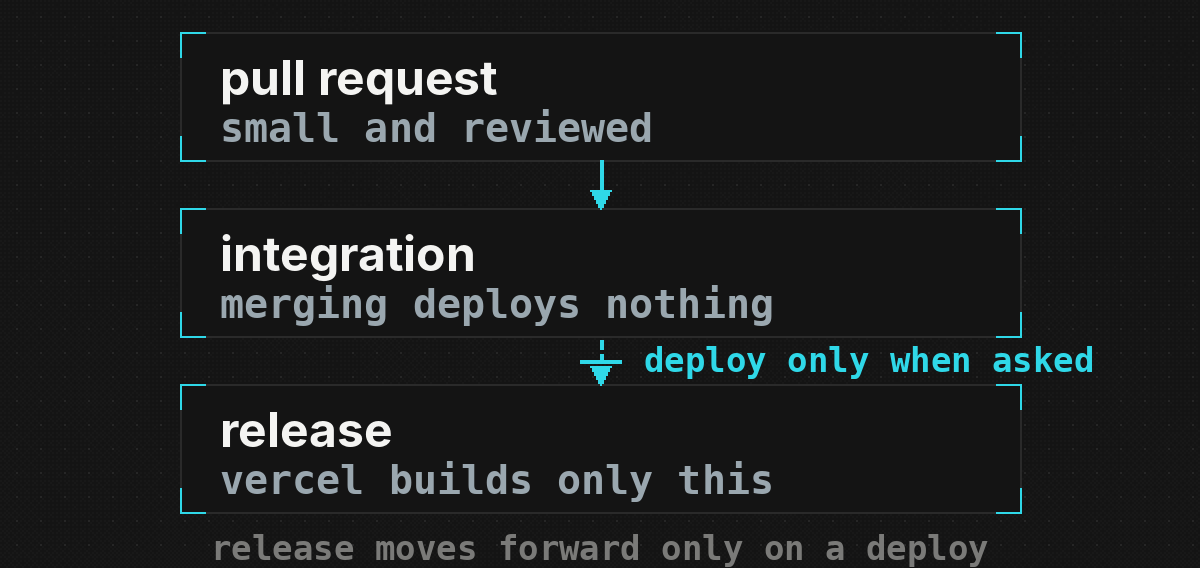
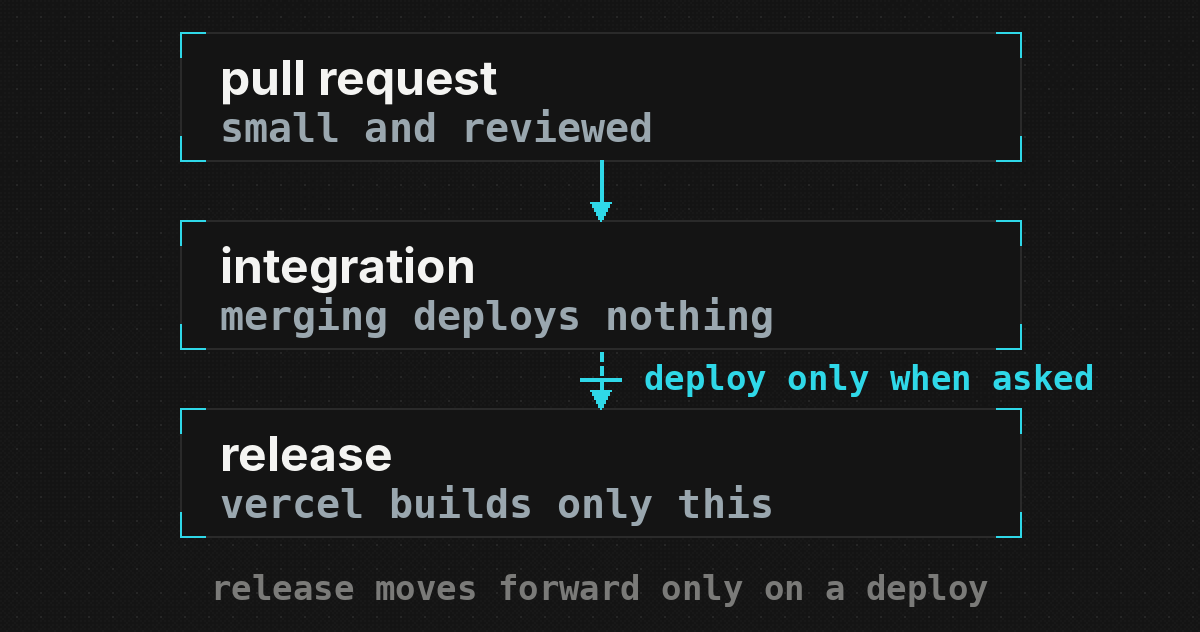
README round 6 to main: tighten stack and workflow art
Brings the tightened stack and workflow art from integration (#639) onto
main. Only README.md, docs/readme/ and scripts/readme-art/ change. Built on
top of origin/main, no history rewrite.

Claude-Session: https://claude.ai/code/session_01Pmx9dVyQKEsummtyqJCQsj

diff --git a/scripts/readme-art/generate.py b/scripts/readme-art/generate.py
@@ -727,7 +727,7 @@ def stack_art():
 
     Labels are sized for a phone: at 390px wide the piece is about 0.3x its
     pixel size, so the text is drawn large."""
-    W, H = 600, 160
+    W, H = 600, 168
     yy, xx = grid(H, W)
     field = 0.04 + 0.1 * fbm(H, W, 91, 30, 3) + 0.08 * (xx / W)
     im = to_image(dither(np.clip(field, 0, 1), ["#141414", "#181818", "#202020", "#2a2a2a", "#333333"]))
@@ -743,7 +743,7 @@ def stack_art():
         ("three.js + supabase", "#8a8a88", "#666664", "#4a4a48"),
         ("vercel + github actions", CYAN, "#0a6f7c", "#064a52"),
     ]
-    cx, w, h, t, step, base = 166, 96, 26, 10, 24, 124
+    cx, w, h, t, step, base = 150, 110, 28, 12, 24, 122
     labels = []
     for k, (label, top_c, left_c, right_c) in enumerate(layers):
         top_y = base - k * step
@@ -770,7 +770,7 @@ def stack_art():
 def workflow_art():
     """Vertical flow: pull request into integration (solid), then integration to
     release (gated, dashed). Stacked vertically so the text can be large on phones."""
-    W, H = 600, 284
+    W, H = 600, 316
     yy, xx = grid(H, W)
     field = 0.03 + 0.09 * fbm(H, W, 57, 28, 3) + 0.05 * (yy / H)
     im = to_image(dither(np.clip(field, 0, 1), ["#141414", "#181818", "#202020", "#2a2a2a"]))
@@ -779,7 +779,7 @@ def workflow_art():
         for gx in range(8, W, 12):
             d.point((gx, gy), fill=hx("#262626"))
     bx0, bx1, bh = 90, 510, 64
-    tops = [16, 104, 192]
+    tops = [16, 110, 204]
     boxes = [
         ("pull request", "small and reviewed"),
         ("integration", "merging deploys nothing"),
@@ -811,7 +811,7 @@ def workflow_art():
         d.text((2 * (bx0 + 20), 2 * (ty + 36)), sub, font=sf, fill=hx("#9aa7af"))
     d.text((2 * (cxm + 22), 2 * gate), "deploy only when asked", font=font(34, mono=True),
            fill=c, anchor="lm")
-    d.text((2 * cxm, 2 * 274), "release moves forward only on a deploy", font=font(34, mono=True),
+    d.text((2 * cxm, 2 * 294), "release moves forward only on a deploy", font=font(34, mono=True),
            fill=hx("#7a7a78"), anchor="mm")
     return im
 
